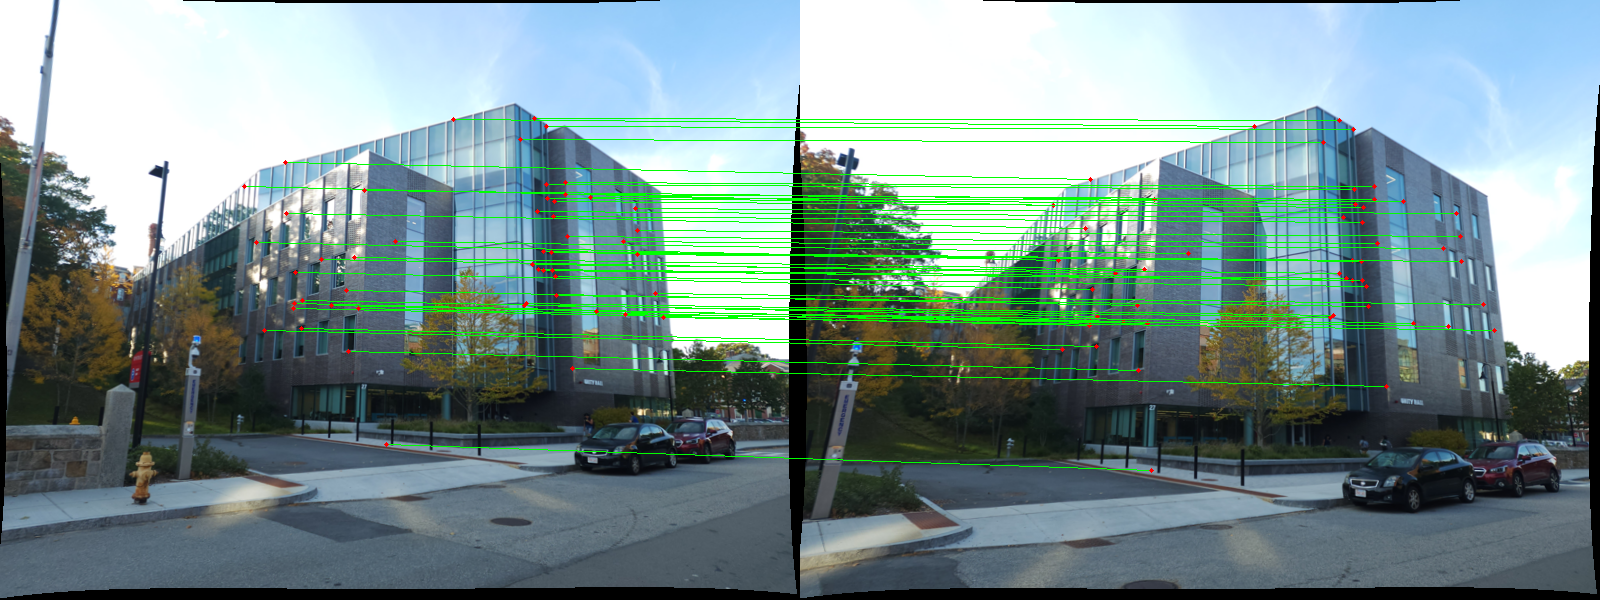
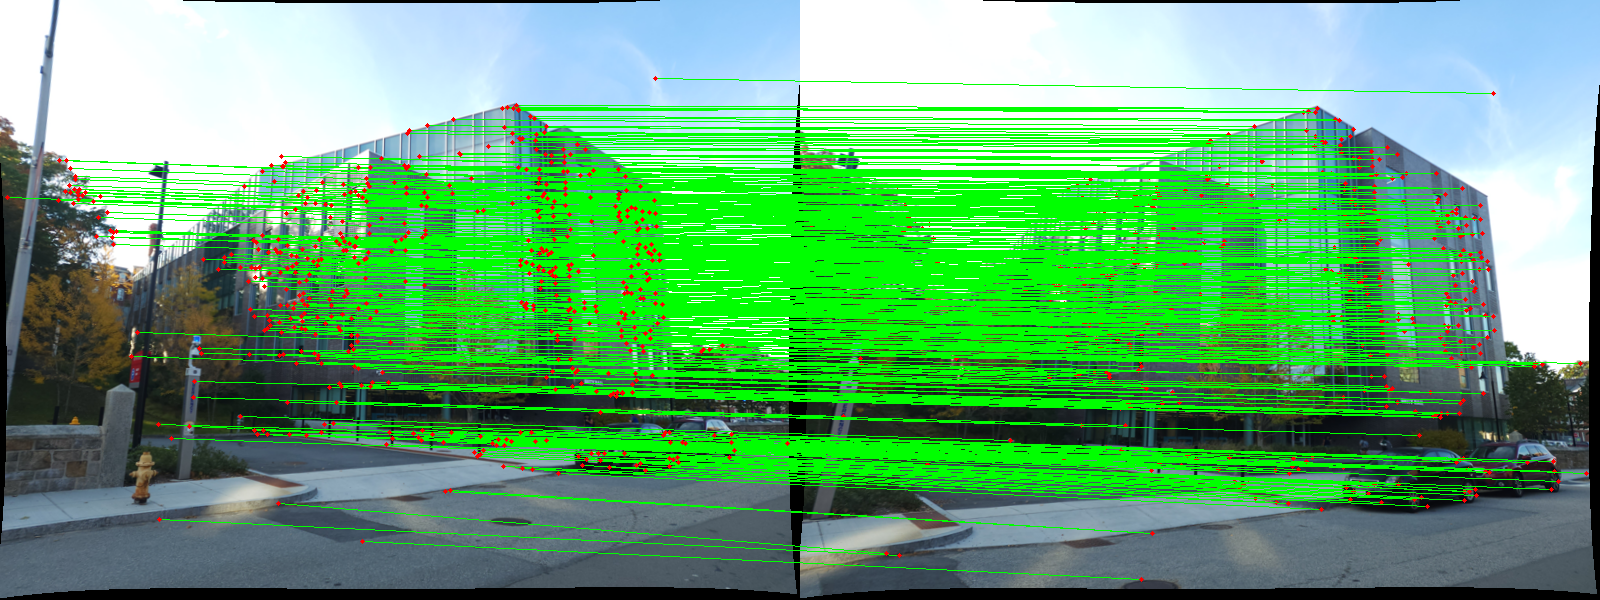
optimizer

diff --git a/Phase1/Wrapper.py b/Phase1/Wrapper.py
@@ -93,8 +93,8 @@ def main():
                 uv_1[0:2, :].T,
                 uv_2[0:2, :].T,
                 cv2.FM_RANSAC,
-                ransacReprojThreshold=0.03,
-                confidence=0.95,
+                ransacReprojThreshold=5,
+                confidence=0.99,
                 maxIters=5000,
             )
             # F_rank = U @ np.diag(vector) @ Vh
@@ -136,8 +136,8 @@ def main():
             pts3D_aux_3 = np.array(pts3D_aux_3).T
             print(aux_number_3)
 
-            P1 = np.hstack((np.eye(3), np.zeros((3, 1))))
-            P2 = np.hstack((R_ransac, t_ransac.reshape(3, 1)))
+            P1 = K @ np.hstack((np.eye(3), np.zeros((3, 1))))
+            P2 = K @ np.hstack((R_ransac, t_ransac.reshape(3, 1)))
 
             pts3D_4xN = triangulatePoints(uv_1, uv_2, P1, P2)
             pts3D_4xN = pts3D_4xN / pts3D_4xN[3, :]
@@ -150,7 +150,7 @@ def main():
             getMatchesNew(dl, inliers_index, n, img_n, DATA_DIR, "Ransacopencv")
 
             ### Optimization section
-            x_init = init_optimization_variables(C_l[1], R_l[1], pts3D_aux_1[0:3, :])
+            x_init = init_optimization_variables(t_ransac, R_ransac, pts3D_4xN[0:3, :])
             x_vector_opt, x_trans_opt, R_quaternion_opt, distortion_opt = (
                 cameraCalibrationCasADi(
                     uv_1,
@@ -159,8 +159,8 @@ def main():
                     x_init,
                     I,
                     t,
-                    R_l[1],
-                    C_l[1],
+                    R_ransac,
+                    t_ransac,
                     pts3D_aux_1,
                 )
             )
@@ -192,13 +192,6 @@ def main():
         iteration = iteration + 1
 
         # Extract x, y, and z coordinates from the matrix
-    plt.scatter(
-        pts3D_aux_0[0, :], pts3D_aux_0[2, :], s=5, color="red", label="Dataset 0"
-    )
-    plt.scatter(
-        pts3D_aux_1[0, :], pts3D_aux_1[2, :], s=5, color="green", label="Dataset 1"
-    )
-    plt.xlim(-20, 20)
     # plt.scatter(pts3D_4xN[0, :], pts3D_4xN[2, :], color="red", label="Dataset 3")
     # plt.scatter(
     # plt.scatter(
@@ -208,6 +201,13 @@ def main():
         pts3D_4xN_casadi[2, :],
         s=5,
         color="blue",
+        label="Dataset 3",
+    )
+    plt.scatter(
+        pts3D_4xN[0, :],
+        pts3D_4xN[2, :],
+        s=5,
+        color="red",
         label="Dataset 3",
     )
 

diff --git a/Phase1/main.py b/Phase1/main.py
@@ -7,6 +7,8 @@ from functions import *
 from EstimateFundamentalMatrix import (
     recoverPoseFromFundamental,
     triangulatePoints,
+    init_optimization_variables,
+    cameraCalibrationCasADi,
 )
 
 
@@ -98,18 +100,43 @@ def main():
             P1 = K @ np.hstack((np.eye(3), np.zeros((3, 1))))
             P2 = K @ np.hstack((R_ransac, t_ransac.reshape(3, 1)))
 
-            # x = cv2.triangulatePoints(
-            #    P1[0:3, 0:4], P2[0:3, 0:4], inliersA_og.T, inliersB_og.T
-            # )  # OpenCV's Linear-Eigen triangl
-            # x[0:3, :] = x[0:3, :] / x[3:4, :]  # normalize coordinates
+            # Initial Conditions camera 1
+            I = np.eye(3, 3)
+            t = np.zeros((3, 1))
 
             pts3D_4xN = triangulatePoints(inliersA_og.T, inliersB_og.T, P1, P2)
             pts3D_4xN = pts3D_4xN / pts3D_4xN[3, :]
+
+            # Nonlinear Optimizer
+            x_init = init_optimization_variables(t_ransac, R_ransac, pts3D_4xN[0:3, :])
+            x_vector_opt, x_trans_opt, R_quaternion_opt, distortion_opt = (
+                cameraCalibrationCasADi(
+                    inliersA_og.T,
+                    inliersB_og.T,
+                    K,
+                    x_init,
+                    I,
+                    t,
+                    R_ransac,
+                    t_ransac,
+                    pts3D_4xN,
+                )
+            )
+            pts3D_4xN_casadi = np.vstack(
+                (x_vector_opt, np.ones((1, x_vector_opt.shape[1])))
+            )
             plt.scatter(
                 pts3D_4xN[0, :],
                 pts3D_4xN[2, :],
-                s=1,
+                s=5,
                 color="green",
+                label="Dataset 3",
+            )
+            plt.scatter(
+                pts3D_4xN_casadi[0, :],
+                pts3D_4xN_casadi[2, :],
+                s=1,
+                color="blue",
                 label="Dataset 3",
             )
 

diff --git a/Phase1/EstimateFundamentalMatrix.py b/Phase1/EstimateFundamentalMatrix.py
@@ -490,16 +490,20 @@ def cameraCalibrationCasADi(pts1, pts2, A, x_init, R1, t1, R2, t2, x):
 
     ### --- Compute reprojection error ---
     ## U_real is a numpy array; convert it to CasADi DM.
+    print(U_real1.shape)
+    print(U_improved_final_1.shape)
     error_1 = U_real1 - U_improved_final_1
     error_2 = U_real2 - U_improved_final_2
     ### Reshape error into a column vector.
     error_reshape_1 = ca.reshape(error_1, (2 * error_1.shape[1], 1))
     error_reshape_2 = ca.reshape(error_2, (2 * error_2.shape[1], 1))
-    cost = cost + error_reshape_2.T @ error_reshape_2
+    cost = (
+        cost + error_reshape_2.T @ error_reshape_2 + error_reshape_1.T @ error_reshape_1
+    )
 
     ### --- Set up and solve the NLP ---
     nlp = {"x": a_vector, "f": cost}
-    opts = {"print_time": 0, "ipopt": {"print_level": 0}}
+    opts = {"print_time": 1, "ipopt": {"print_level": 5}}
     solver = ca.nlpsol("solver", "ipopt", nlp, opts)
     sol = solver(x0=x_init)
     a_opt_vec = np.array(sol["x"]).flatten()
